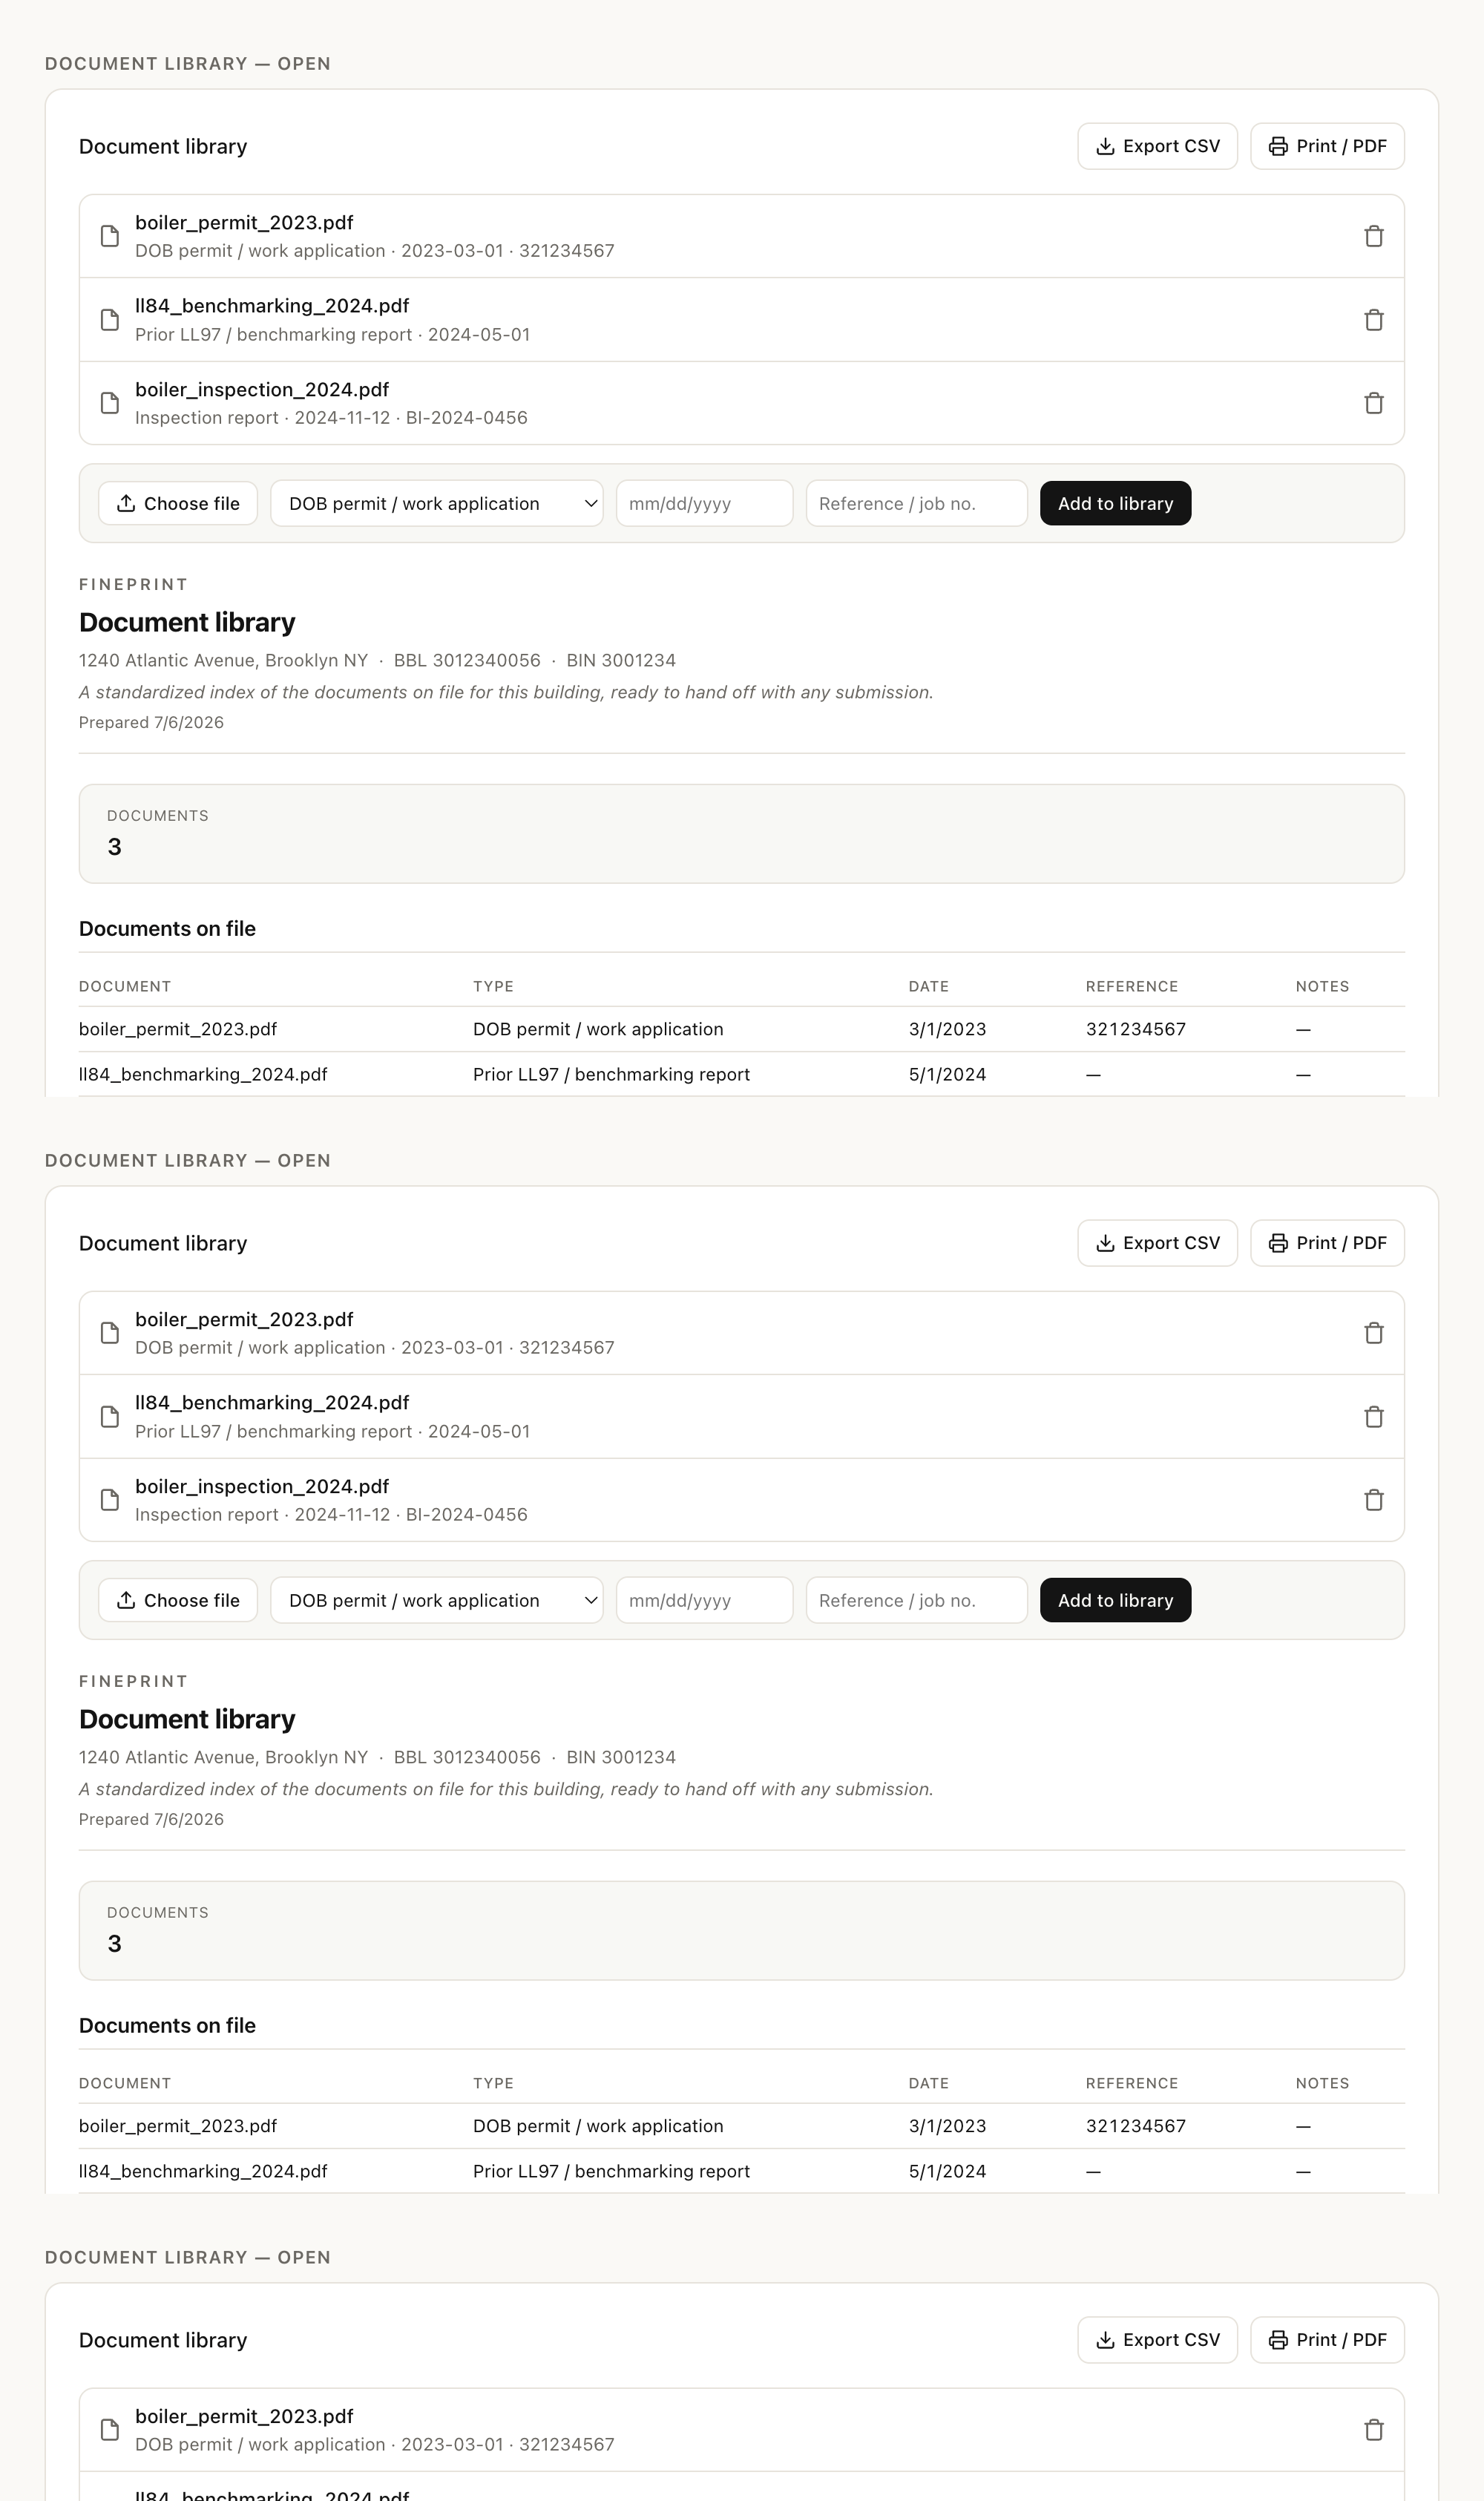
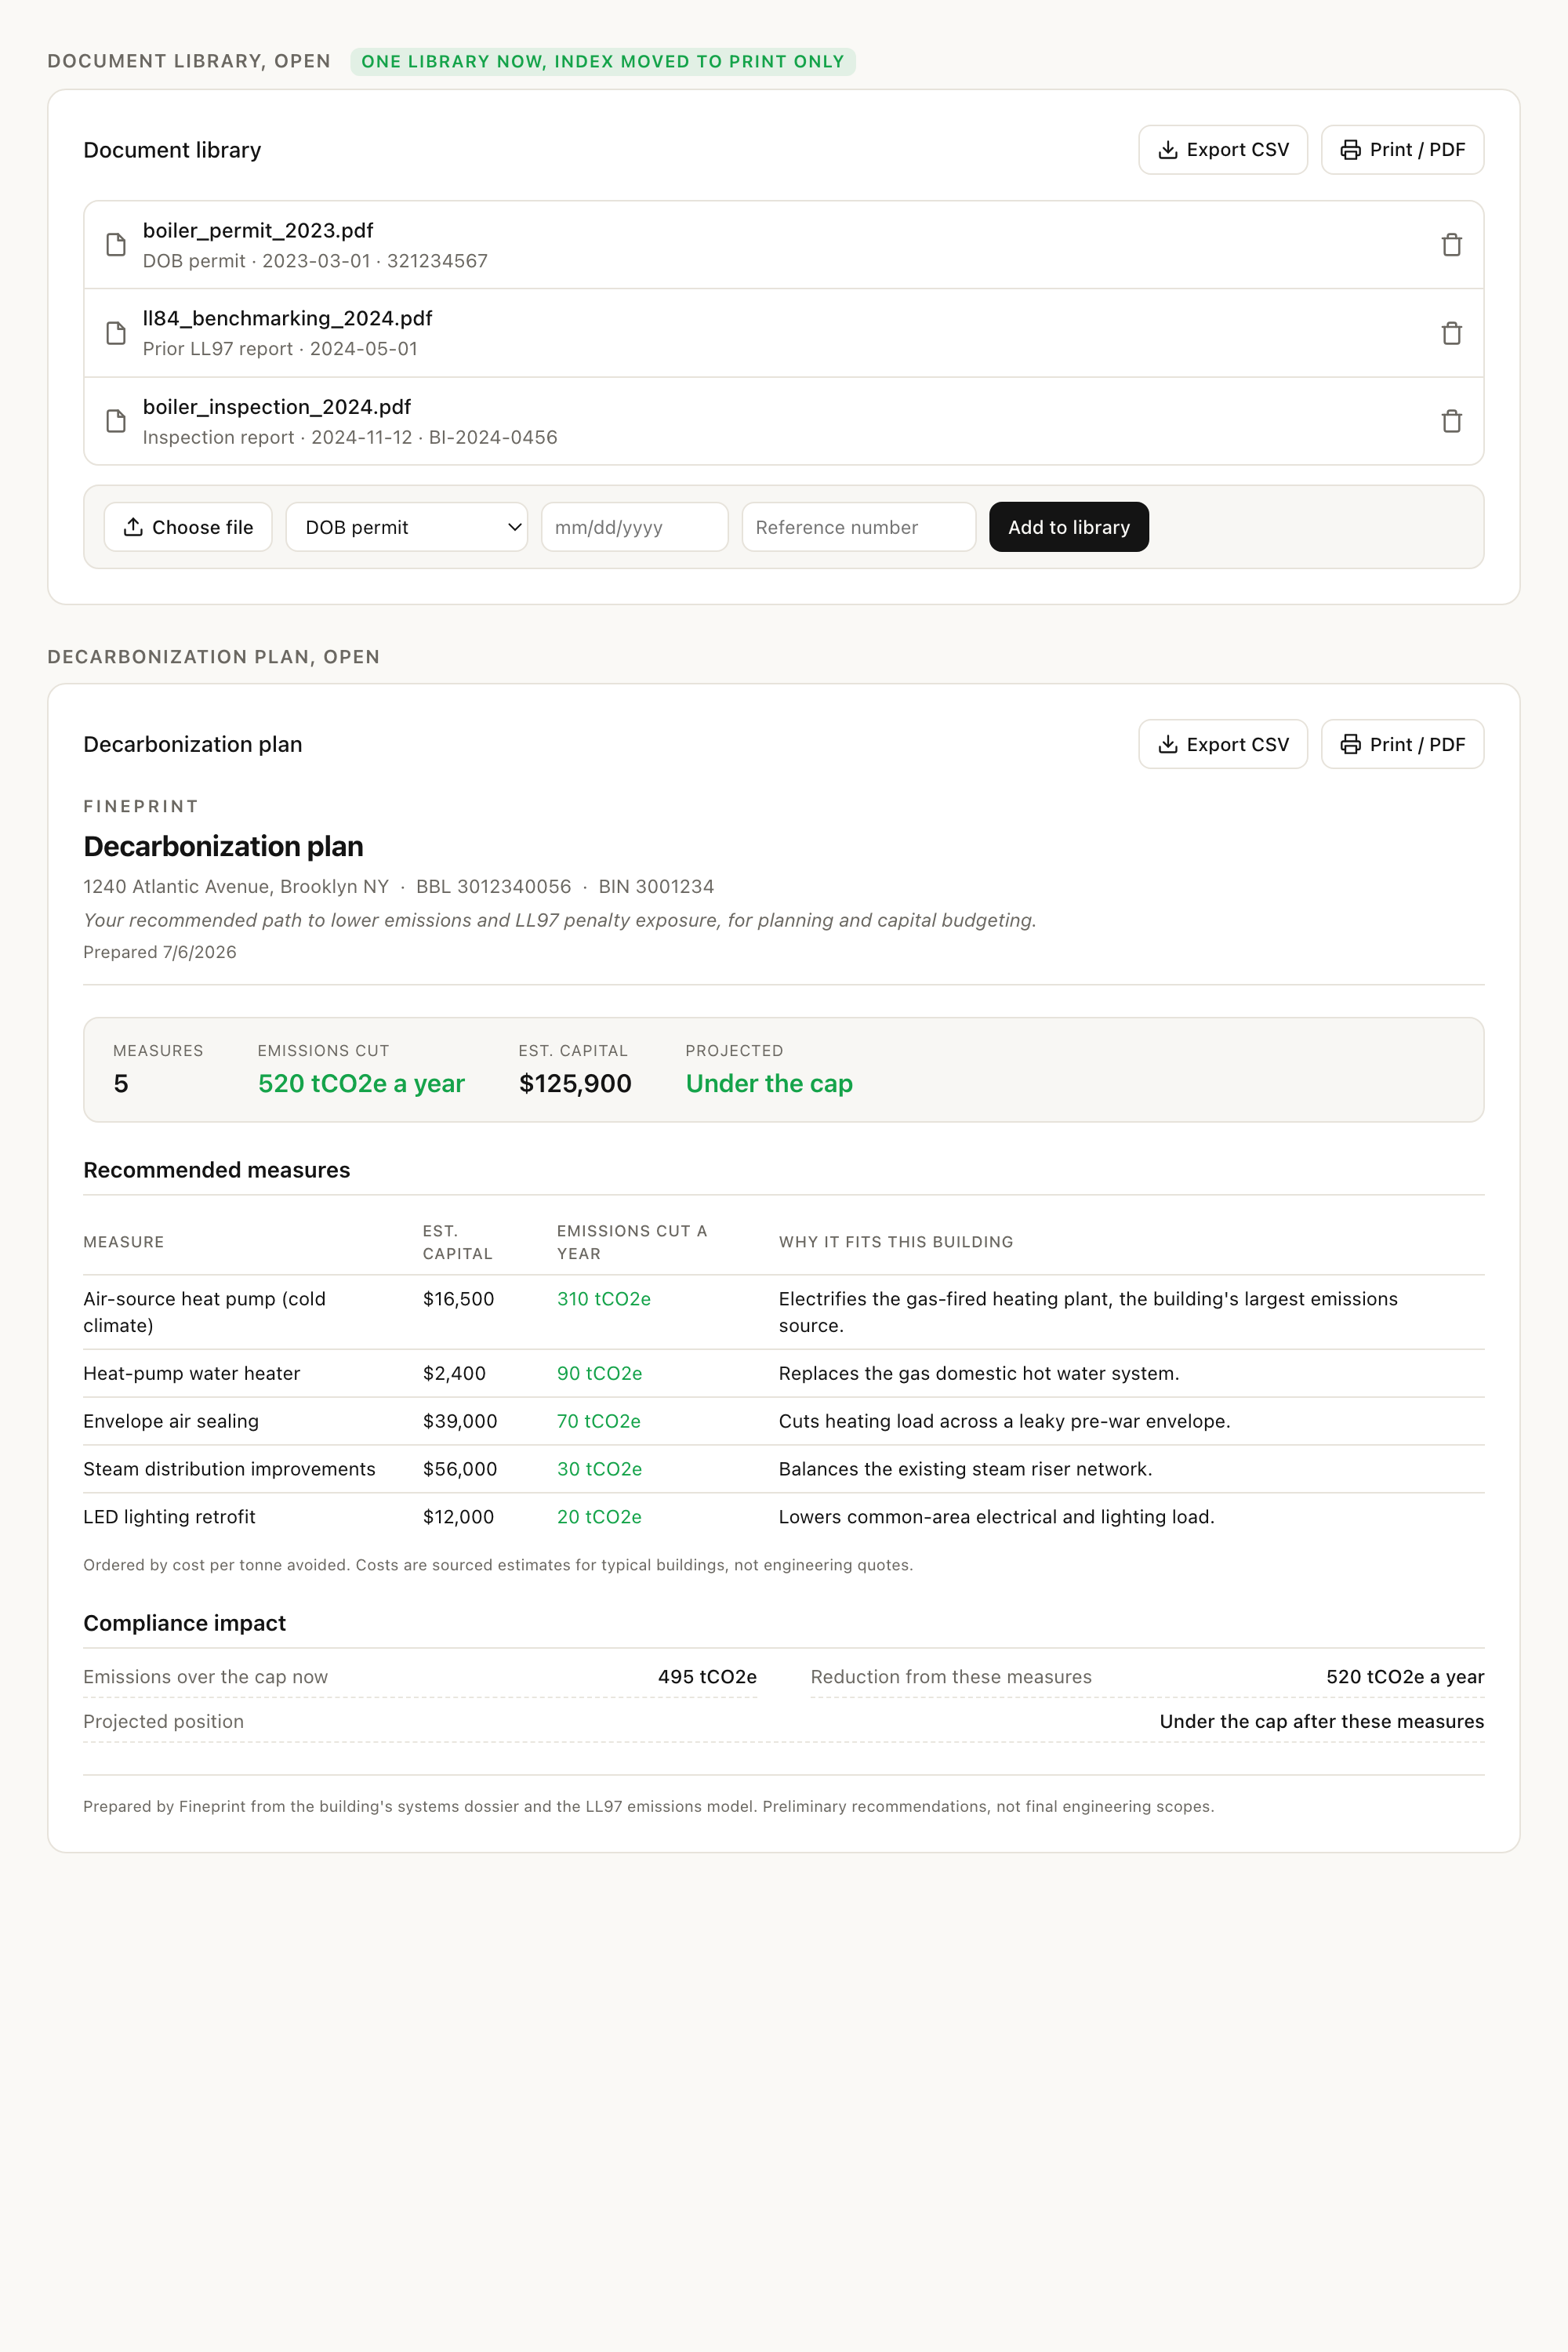
Add regenerated deliverable preview renders

diff --git a/preview/prepared-by-fineprint-2.html b/preview/prepared-by-fineprint-2.html
@@ -1,83 +1,58 @@
 <!doctype html>
-<html lang="en">
-<head>
-<meta charset="utf-8" />
-<meta name="viewport" content="width=device-width, initial-scale=1" />
-<title>Fineprint — document library & decarbonization plan</title>
+<html lang="en"><head><meta charset="utf-8" /><title>Fineprint fixed</title>
 <style>
-  :root{
-    --bg:#faf9f6; --card:#ffffff; --fg:#141414; --muted:#f2f0ea; --muted-fg:#6b6862;
-    --border:#e7e3db; --primary:#141414; --primary-fg:#faf9f6; --success:#15a34a;
-    --destructive:#e5342b; --amber:#d97706;
-  }
+  :root{--bg:#faf9f6;--card:#fff;--fg:#141414;--muted:#f2f0ea;--muted-fg:#6b6862;--border:#e7e3db;--primary:#141414;--primary-fg:#faf9f6;--success:#15a34a;--destructive:#e5342b}
   *{box-sizing:border-box;margin:0;padding:0}
-  body{background:var(--bg);color:var(--fg);
-    font-family:-apple-system,BlinkMacSystemFont,"Segoe UI",Inter,Roboto,Helvetica,Arial,sans-serif;
-    -webkit-font-smoothing:antialiased;line-height:1.45;padding:34px 30px 40px}
-  .wrap{max-width:940px;margin:0 auto;display:flex;flex-direction:column;gap:26px}
+  body{background:var(--bg);color:var(--fg);font-family:-apple-system,BlinkMacSystemFont,"Segoe UI",Inter,Roboto,Helvetica,Arial,sans-serif;-webkit-font-smoothing:antialiased;line-height:1.45;padding:30px}
+  .wrap{max-width:940px;margin:0 auto;display:flex;flex-direction:column;gap:24px}
   svg{display:block}
-  .label{font-size:12px;font-weight:600;color:var(--muted-fg);text-transform:uppercase;letter-spacing:.06em}
-
+  .label{font-size:12px;font-weight:600;color:var(--muted-fg);text-transform:uppercase;letter-spacing:.06em;margin-bottom:8px}
   .panel{border:1px solid var(--border);background:var(--card);border-radius:12px;padding:22px}
   .toolbar{display:flex;align-items:center;justify-content:space-between;gap:10px;margin-bottom:16px}
   .toolbar .t{font-size:14px;font-weight:500}
   .toolbar .acts{display:flex;gap:8px}
-  .btn{display:inline-flex;align-items:center;gap:5px;font-size:12px;font-weight:500;height:32px;
-    padding:0 11px;border-radius:8px;border:1px solid var(--border);background:var(--card);color:var(--fg);cursor:default}
+  .btn{display:inline-flex;align-items:center;gap:5px;font-size:12px;font-weight:500;height:32px;padding:0 11px;border-radius:8px;border:1px solid var(--border);background:var(--card);color:var(--fg)}
   .btn.primary{background:var(--primary);color:var(--primary-fg);border-color:var(--primary)}
   .btn svg{width:14px;height:14px}
-  .btn.sm{height:30px;font-size:12px}
-
-  /* document library interactive */
-  .lib{display:flex;flex-direction:column;gap:12px;margin-bottom:20px}
-  .doclist{border:1px solid var(--border);border-radius:10px;overflow:hidden}
+  .doclist{border:1px solid var(--border);border-radius:10px;overflow:hidden;margin-bottom:12px}
   .docrow{display:flex;align-items:center;justify-content:space-between;gap:12px;padding:9px 12px;border-bottom:1px solid var(--border)}
   .docrow:last-child{border-bottom:0}
-  .docrow .left{display:flex;align-items:center;gap:9px;min-width:0}
+  .docrow .left{display:flex;align-items:center;gap:9px}
   .docrow .name{font-size:13px;font-weight:500}
   .docrow .meta{font-size:12px;color:var(--muted-fg);margin-top:1px}
   .trash{color:var(--muted-fg)}
-  .uploadbar{display:flex;flex-wrap:wrap;align-items:center;gap:8px;border:1px solid var(--border);
-    background:rgba(242,240,234,.5);border-radius:10px;padding:10px 12px}
-  select,input.f{height:32px;border:1px solid var(--border);border-radius:8px;background:var(--card);
-    color:var(--fg);font-size:12px;padding:0 8px;font-family:inherit}
-
-  /* deliverable document (same as emissions view) */
-  .doc{display:flex;flex-direction:column;gap:20px;font-size:14px;color:var(--fg)}
+  .uploadbar{display:flex;flex-wrap:wrap;align-items:center;gap:8px;border:1px solid var(--border);background:rgba(242,240,234,.5);border-radius:10px;padding:10px 12px}
+  select,input.f{height:32px;border:1px solid var(--border);border-radius:8px;background:var(--card);color:var(--fg);font-size:12px;padding:0 8px;font-family:inherit}
+  .doc{display:flex;flex-direction:column;gap:20px;font-size:14px}
   .doc header{border-bottom:1px solid var(--border);padding-bottom:12px;display:flex;flex-direction:column;gap:4px}
   .brand{font-size:11px;font-weight:600;text-transform:uppercase;letter-spacing:.16em;color:var(--muted-fg)}
   .doc h3{font-size:18px;font-weight:700;letter-spacing:-.01em}
   .doc .ident{font-size:12px;color:var(--muted-fg)}
   .doc .purpose{font-size:12px;font-style:italic;color:var(--muted-fg)}
   .doc .prep{font-size:11px;color:var(--muted-fg)}
-  .statrow{display:flex;flex-wrap:wrap;gap:12px 34px;border:1px solid var(--border);
-    background:rgba(242,240,234,.5);border-radius:10px;padding:13px 18px}
+  .statrow{display:flex;flex-wrap:wrap;gap:12px 34px;border:1px solid var(--border);background:rgba(242,240,234,.5);border-radius:10px;padding:13px 18px}
   .stat .k{font-size:10px;text-transform:uppercase;letter-spacing:.04em;color:var(--muted-fg)}
-  .stat .v{font-size:16px;font-weight:600;font-variant-numeric:tabular-nums;margin-top:2px}
+  .stat .v{font-size:16px;font-weight:600;margin-top:2px}
+  .ok{color:var(--success)}
+  .doc h4{font-size:14px;font-weight:600;border-bottom:1px solid var(--border);padding-bottom:5px}
   .doc section{display:flex;flex-direction:column;gap:9px}
-  .doc h4{font-size:14px;font-weight:600;letter-spacing:-.01em;border-bottom:1px solid var(--border);padding-bottom:5px}
   dl.rows{display:grid;grid-template-columns:1fr 1fr;gap:6px 34px}
   dl.rows .r{display:flex;justify-content:space-between;gap:12px;border-bottom:1px dashed rgba(231,227,219,.9);padding-bottom:4px}
   dl.rows dt{font-size:12px;color:var(--muted-fg)}
   dl.rows dd{font-size:12px;font-weight:500;text-align:right}
   table{width:100%;border-collapse:collapse;font-size:12px}
-  thead th{text-align:left;font-size:10px;text-transform:uppercase;letter-spacing:.04em;color:var(--muted-fg);
-    font-weight:500;padding:6px 14px 6px 0;border-bottom:1px solid var(--border)}
+  thead th{text-align:left;font-size:10px;text-transform:uppercase;letter-spacing:.04em;color:var(--muted-fg);font-weight:500;padding:6px 14px 6px 0;border-bottom:1px solid var(--border)}
   tbody td{padding:6px 14px 6px 0;border-bottom:1px solid var(--border);vertical-align:top}
   tbody tr:last-child td{border-bottom:0}
-  td.num{font-variant-numeric:tabular-nums}
   .tnote{font-size:10px;color:var(--muted-fg)}
-  .notes{border-top:1px solid var(--border);padding-top:12px;display:flex;flex-direction:column;gap:3px}
+  .notes{border-top:1px solid var(--border);padding-top:12px}
   .notes p{font-size:10px;color:var(--muted-fg)}
-  .ok{color:var(--success)}
-</style>
-</head>
-<body>
-<div class="wrap">
+  .badge{display:inline-block;font-size:11px;color:var(--success);background:rgba(21,163,74,.1);border-radius:6px;padding:1px 7px;margin-left:8px}
+</style></head>
+<body><div class="wrap">
 
-  <!-- ===================== DOCUMENT LIBRARY (open) ===================== -->
   <div>
-    <div class="label" style="margin-bottom:8px">Document library — open</div>
+    <div class="label">Document library, open <span class="badge">one library now, index moved to print only</span></div>
     <div class="panel">
       <div class="toolbar">
         <div class="t">Document library</div>
@@ -86,125 +61,63 @@
           <span class="btn"><svg viewBox="0 0 24 24" fill="none" stroke="currentColor" stroke-width="2" stroke-linecap="round" stroke-linejoin="round"><path d="M6 9V2h12v7"/><path d="M6 18H4a2 2 0 0 1-2-2v-5a2 2 0 0 1 2-2h16a2 2 0 0 1 2 2v5a2 2 0 0 1-2 2h-2"/><rect x="6" y="14" width="12" height="8"/></svg>Print / PDF</span>
         </div>
       </div>
-
-      <!-- interactive library (upload + list) -->
-      <div class="lib">
-        <div class="doclist">
-          <div class="docrow">
-            <div class="left">
-              <svg width="16" height="16" viewBox="0 0 24 24" fill="none" stroke="#6b6862" stroke-width="2" stroke-linecap="round" stroke-linejoin="round"><path d="M14 2H6a2 2 0 0 0-2 2v16a2 2 0 0 0 2 2h12a2 2 0 0 0 2-2V8z"/><path d="M14 2v6h6"/></svg>
-              <div><div class="name">boiler_permit_2023.pdf</div><div class="meta">DOB permit / work application · 2023-03-01 · 321234567</div></div>
-            </div>
-            <svg class="trash" width="16" height="16" viewBox="0 0 24 24" fill="none" stroke="currentColor" stroke-width="2" stroke-linecap="round" stroke-linejoin="round"><path d="M3 6h18"/><path d="M19 6v14a2 2 0 0 1-2 2H7a2 2 0 0 1-2-2V6"/><path d="M8 6V4a2 2 0 0 1 2-2h4a2 2 0 0 1 2 2v2"/></svg>
-          </div>
-          <div class="docrow">
-            <div class="left">
-              <svg width="16" height="16" viewBox="0 0 24 24" fill="none" stroke="#6b6862" stroke-width="2" stroke-linecap="round" stroke-linejoin="round"><path d="M14 2H6a2 2 0 0 0-2 2v16a2 2 0 0 0 2 2h12a2 2 0 0 0 2-2V8z"/><path d="M14 2v6h6"/></svg>
-              <div><div class="name">ll84_benchmarking_2024.pdf</div><div class="meta">Prior LL97 / benchmarking report · 2024-05-01</div></div>
-            </div>
-            <svg class="trash" width="16" height="16" viewBox="0 0 24 24" fill="none" stroke="currentColor" stroke-width="2" stroke-linecap="round" stroke-linejoin="round"><path d="M3 6h18"/><path d="M19 6v14a2 2 0 0 1-2 2H7a2 2 0 0 1-2-2V6"/><path d="M8 6V4a2 2 0 0 1 2-2h4a2 2 0 0 1 2 2v2"/></svg>
-          </div>
-          <div class="docrow">
-            <div class="left">
-              <svg width="16" height="16" viewBox="0 0 24 24" fill="none" stroke="#6b6862" stroke-width="2" stroke-linecap="round" stroke-linejoin="round"><path d="M14 2H6a2 2 0 0 0-2 2v16a2 2 0 0 0 2 2h12a2 2 0 0 0 2-2V8z"/><path d="M14 2v6h6"/></svg>
-              <div><div class="name">boiler_inspection_2024.pdf</div><div class="meta">Inspection report · 2024-11-12 · BI-2024-0456</div></div>
-            </div>
-            <svg class="trash" width="16" height="16" viewBox="0 0 24 24" fill="none" stroke="currentColor" stroke-width="2" stroke-linecap="round" stroke-linejoin="round"><path d="M3 6h18"/><path d="M19 6v14a2 2 0 0 1-2 2H7a2 2 0 0 1-2-2V6"/><path d="M8 6V4a2 2 0 0 1 2-2h4a2 2 0 0 1 2 2v2"/></svg>
-          </div>
-        </div>
-
-        <div class="uploadbar">
-          <span class="btn sm"><svg viewBox="0 0 24 24" fill="none" stroke="currentColor" stroke-width="2" stroke-linecap="round" stroke-linejoin="round"><path d="M21 15v4a2 2 0 0 1-2 2H5a2 2 0 0 1-2-2v-4"/><path d="M17 8l-5-5-5 5"/><path d="M12 3v12"/></svg>Choose file</span>
-          <select><option>DOB permit / work application</option><option>Prior LL97 / benchmarking report</option><option>Inspection report</option><option>Equipment cut sheet / invoice</option><option>Other</option></select>
-          <input class="f" type="text" placeholder="mm/dd/yyyy" style="width:120px" />
-          <input class="f" type="text" placeholder="Reference / job no." style="width:150px" />
-          <span class="btn sm primary">Add to library</span>
-        </div>
+      <div class="doclist">
+        <div class="docrow"><div class="left"><svg width="16" height="16" viewBox="0 0 24 24" fill="none" stroke="#6b6862" stroke-width="2" stroke-linecap="round" stroke-linejoin="round"><path d="M14 2H6a2 2 0 0 0-2 2v16a2 2 0 0 0 2 2h12a2 2 0 0 0 2-2V8z"/><path d="M14 2v6h6"/></svg><div><div class="name">boiler_permit_2023.pdf</div><div class="meta">DOB permit · 2023-03-01 · 321234567</div></div></div><svg class="trash" width="16" height="16" viewBox="0 0 24 24" fill="none" stroke="currentColor" stroke-width="2" stroke-linecap="round" stroke-linejoin="round"><path d="M3 6h18"/><path d="M19 6v14a2 2 0 0 1-2 2H7a2 2 0 0 1-2-2V6"/><path d="M8 6V4a2 2 0 0 1 2-2h4a2 2 0 0 1 2 2v2"/></svg></div>
+        <div class="docrow"><div class="left"><svg width="16" height="16" viewBox="0 0 24 24" fill="none" stroke="#6b6862" stroke-width="2" stroke-linecap="round" stroke-linejoin="round"><path d="M14 2H6a2 2 0 0 0-2 2v16a2 2 0 0 0 2 2h12a2 2 0 0 0 2-2V8z"/><path d="M14 2v6h6"/></svg><div><div class="name">ll84_benchmarking_2024.pdf</div><div class="meta">Prior LL97 report · 2024-05-01</div></div></div><svg class="trash" width="16" height="16" viewBox="0 0 24 24" fill="none" stroke="currentColor" stroke-width="2" stroke-linecap="round" stroke-linejoin="round"><path d="M3 6h18"/><path d="M19 6v14a2 2 0 0 1-2 2H7a2 2 0 0 1-2-2V6"/><path d="M8 6V4a2 2 0 0 1 2-2h4a2 2 0 0 1 2 2v2"/></svg></div>
+        <div class="docrow"><div class="left"><svg width="16" height="16" viewBox="0 0 24 24" fill="none" stroke="#6b6862" stroke-width="2" stroke-linecap="round" stroke-linejoin="round"><path d="M14 2H6a2 2 0 0 0-2 2v16a2 2 0 0 0 2 2h12a2 2 0 0 0 2-2V8z"/><path d="M14 2v6h6"/></svg><div><div class="name">boiler_inspection_2024.pdf</div><div class="meta">Inspection report · 2024-11-12 · BI-2024-0456</div></div></div><svg class="trash" width="16" height="16" viewBox="0 0 24 24" fill="none" stroke="currentColor" stroke-width="2" stroke-linecap="round" stroke-linejoin="round"><path d="M3 6h18"/><path d="M19 6v14a2 2 0 0 1-2 2H7a2 2 0 0 1-2-2V6"/><path d="M8 6V4a2 2 0 0 1 2-2h4a2 2 0 0 1 2 2v2"/></svg></div>
       </div>
-
-      <!-- the standardized index document -->
-      <div class="doc">
-        <header>
-          <div class="brand">Fineprint</div>
-          <h3>Document library</h3>
-          <div class="ident">1240 Atlantic Avenue, Brooklyn NY &nbsp;·&nbsp; BBL 3012340056 &nbsp;·&nbsp; BIN 3001234</div>
-          <div class="purpose">A standardized index of the documents on file for this building, ready to hand off with any submission.</div>
-          <div class="prep">Prepared 7/6/2026</div>
-        </header>
-        <div class="statrow"><div class="stat"><div class="k">Documents</div><div class="v">3</div></div></div>
-        <section>
-          <h4>Documents on file</h4>
-          <table>
-            <thead><tr><th>Document</th><th>Type</th><th>Date</th><th>Reference</th><th>Notes</th></tr></thead>
-            <tbody>
-              <tr><td>boiler_permit_2023.pdf</td><td>DOB permit / work application</td><td class="num">3/1/2023</td><td class="num">321234567</td><td>—</td></tr>
-              <tr><td>ll84_benchmarking_2024.pdf</td><td>Prior LL97 / benchmarking report</td><td class="num">5/1/2024</td><td>—</td><td>—</td></tr>
-              <tr><td>boiler_inspection_2024.pdf</td><td>Inspection report</td><td class="num">11/12/2024</td><td class="num">BI-2024-0456</td><td>—</td></tr>
-            </tbody>
-          </table>
-        </section>
-        <div class="notes"><p>Prepared by Fineprint. Files are stored privately in your account; only you can access them.</p></div>
+      <div class="uploadbar">
+        <span class="btn"><svg viewBox="0 0 24 24" fill="none" stroke="currentColor" stroke-width="2" stroke-linecap="round" stroke-linejoin="round"><path d="M21 15v4a2 2 0 0 1-2 2H5a2 2 0 0 1-2-2v-4"/><path d="M17 8l-5-5-5 5"/><path d="M12 3v12"/></svg>Choose file</span>
+        <select><option>DOB permit</option><option>Prior LL97 report</option><option>Inspection report</option><option>Equipment cut sheet</option><option>Other</option></select>
+        <input class="f" type="text" placeholder="mm/dd/yyyy" style="width:120px" />
+        <input class="f" type="text" placeholder="Reference number" style="width:150px" />
+        <span class="btn primary">Add to library</span>
       </div>
     </div>
   </div>
 
-  <!-- ===================== DECARBONIZATION PLAN (open) ===================== -->
   <div>
-    <div class="label" style="margin-bottom:8px">Decarbonization plan — open</div>
+    <div class="label">Decarbonization plan, open</div>
     <div class="panel">
-      <div class="toolbar">
-        <div class="t">Decarbonization plan</div>
-        <div class="acts">
-          <span class="btn"><svg viewBox="0 0 24 24" fill="none" stroke="currentColor" stroke-width="2" stroke-linecap="round" stroke-linejoin="round"><path d="M21 15v4a2 2 0 0 1-2 2H5a2 2 0 0 1-2-2v-4"/><path d="M7 10l5 5 5-5"/><path d="M12 15V3"/></svg>Export CSV</span>
-          <span class="btn"><svg viewBox="0 0 24 24" fill="none" stroke="currentColor" stroke-width="2" stroke-linecap="round" stroke-linejoin="round"><path d="M6 9V2h12v7"/><path d="M6 18H4a2 2 0 0 1-2-2v-5a2 2 0 0 1 2-2h16a2 2 0 0 1 2 2v5a2 2 0 0 1-2 2h-2"/><rect x="6" y="14" width="12" height="8"/></svg>Print / PDF</span>
-        </div>
-      </div>
-
+      <div class="toolbar"><div class="t">Decarbonization plan</div><div class="acts"><span class="btn"><svg viewBox="0 0 24 24" fill="none" stroke="currentColor" stroke-width="2" stroke-linecap="round" stroke-linejoin="round"><path d="M21 15v4a2 2 0 0 1-2 2H5a2 2 0 0 1-2-2v-4"/><path d="M7 10l5 5 5-5"/><path d="M12 15V3"/></svg>Export CSV</span><span class="btn"><svg viewBox="0 0 24 24" fill="none" stroke="currentColor" stroke-width="2" stroke-linecap="round" stroke-linejoin="round"><path d="M6 9V2h12v7"/><path d="M6 18H4a2 2 0 0 1-2-2v-5a2 2 0 0 1 2-2h16a2 2 0 0 1 2 2v5a2 2 0 0 1-2 2h-2"/><rect x="6" y="14" width="12" height="8"/></svg>Print / PDF</span></div></div>
       <div class="doc">
         <header>
-          <div class="brand">Fineprint</div>
-          <h3>Decarbonization plan</h3>
+          <div class="brand">Fineprint</div><h3>Decarbonization plan</h3>
           <div class="ident">1240 Atlantic Avenue, Brooklyn NY &nbsp;·&nbsp; BBL 3012340056 &nbsp;·&nbsp; BIN 3001234</div>
-          <div class="purpose">Your recommended path to reduce emissions and LL97 penalty exposure - for planning, capital budgeting, and your consultants.</div>
+          <div class="purpose">Your recommended path to lower emissions and LL97 penalty exposure, for planning and capital budgeting.</div>
           <div class="prep">Prepared 7/6/2026</div>
         </header>
-
         <div class="statrow">
           <div class="stat"><div class="k">Measures</div><div class="v">5</div></div>
-          <div class="stat"><div class="k">Emissions cut</div><div class="v ok">-520 tCO2e/yr</div></div>
+          <div class="stat"><div class="k">Emissions cut</div><div class="v ok">520 tCO2e a year</div></div>
           <div class="stat"><div class="k">Est. capital</div><div class="v">$125,900</div></div>
           <div class="stat"><div class="k">Projected</div><div class="v ok">Under the cap</div></div>
         </div>
-
         <section>
           <h4>Recommended measures</h4>
           <table>
-            <thead><tr><th>Measure</th><th>Est. capital</th><th>Emissions cut / yr</th><th>Why it fits this building</th></tr></thead>
+            <thead><tr><th>Measure</th><th>Est. capital</th><th>Emissions cut a year</th><th>Why it fits this building</th></tr></thead>
             <tbody>
-              <tr><td>Air-source heat pump (cold climate)</td><td class="num">$16,500</td><td class="num ok">-310 tCO2e</td><td>Electrifies the gas-fired heating plant - the building's largest emissions source.</td></tr>
-              <tr><td>Heat-pump water heater</td><td class="num">$2,400</td><td class="num ok">-90 tCO2e</td><td>Replaces the gas domestic hot water system.</td></tr>
-              <tr><td>Envelope air sealing</td><td class="num">$39,000</td><td class="num ok">-70 tCO2e</td><td>Cuts heating load across a leaky pre-war envelope.</td></tr>
-              <tr><td>Steam distribution improvements</td><td class="num">$56,000</td><td class="num ok">-30 tCO2e</td><td>Balances the existing steam riser network.</td></tr>
-              <tr><td>LED lighting retrofit</td><td class="num">$12,000</td><td class="num ok">-20 tCO2e</td><td>Lowers common-area electrical and lighting load.</td></tr>
+              <tr><td>Air-source heat pump (cold climate)</td><td>$16,500</td><td class="ok">310 tCO2e</td><td>Electrifies the gas-fired heating plant, the building's largest emissions source.</td></tr>
+              <tr><td>Heat-pump water heater</td><td>$2,400</td><td class="ok">90 tCO2e</td><td>Replaces the gas domestic hot water system.</td></tr>
+              <tr><td>Envelope air sealing</td><td>$39,000</td><td class="ok">70 tCO2e</td><td>Cuts heating load across a leaky pre-war envelope.</td></tr>
+              <tr><td>Steam distribution improvements</td><td>$56,000</td><td class="ok">30 tCO2e</td><td>Balances the existing steam riser network.</td></tr>
+              <tr><td>LED lighting retrofit</td><td>$12,000</td><td class="ok">20 tCO2e</td><td>Lowers common-area electrical and lighting load.</td></tr>
             </tbody>
           </table>
           <div class="tnote">Ordered by cost per tonne avoided. Costs are sourced estimates for typical buildings, not engineering quotes.</div>
         </section>
-
         <section>
           <h4>Compliance impact</h4>
           <dl class="rows">
             <div class="r"><dt>Emissions over the cap now</dt><dd>495 tCO2e</dd></div>
-            <div class="r"><dt>Reduction from these measures</dt><dd>-520 tCO2e/yr</dd></div>
+            <div class="r"><dt>Reduction from these measures</dt><dd>520 tCO2e a year</dd></div>
             <div class="r" style="grid-column:1 / -1"><dt>Projected position</dt><dd>Under the cap after these measures</dd></div>
           </dl>
         </section>
-
         <div class="notes"><p>Prepared by Fineprint from the building's systems dossier and the LL97 emissions model. Preliminary recommendations, not final engineering scopes.</p></div>
       </div>
     </div>
   </div>
 
-</div>
-</body>
-</html>
+</div></body></html>

diff --git a/preview/prepared-by-fineprint.html b/preview/prepared-by-fineprint.html
@@ -3,7 +3,7 @@
 <head>
 <meta charset="utf-8" />
 <meta name="viewport" content="width=device-width, initial-scale=1" />
-<title>Prepared by Fineprint — preview</title>
+<title>Prepared by Fineprint preview</title>
 <style>
   :root{
     --bg:#faf9f6; --card:#ffffff; --fg:#141414; --muted:#f2f0ea; --muted-fg:#6b6862;
@@ -84,18 +84,18 @@
 
   <div>
     <div class="sec-h">Prepared by Fineprint</div>
-    <div class="sec-sub">Everything we've put together for this building - open it, then export wherever you submit for LL97 compliance.</div>
+    <div class="sec-sub">Everything we've put together for this building. Open it, then export wherever you submit for LL97 compliance.</div>
   </div>
 
   <div class="cards">
     <!-- Emissions -->
     <div class="card">
       <div class="card-title"><span class="ic"><svg width="16" height="16" viewBox="0 0 24 24" fill="none" stroke="currentColor" stroke-width="2" stroke-linecap="round" stroke-linejoin="round"><path d="M11 20A7 7 0 0 1 9.8 6.1C15.5 5 17 4.48 19 2c1 2 2 4.18 2 8 0 5.5-4.78 10-10 10Z"/><path d="M2 21c0-3 1.85-5.36 5.08-6"/></svg></span>LL97 emissions position</div>
-      <div class="card-purpose">For your annual Article 320 emissions report in DOB NOW: BEAM, and for your Registered Design Professional.</div>
+      <div class="card-purpose">For your annual Article 320 emissions report in the BEAM portal and for your Registered Design Professional.</div>
       <div class="chips">
         <div class="chip"><span class="k">Status</span> <span class="v bad">Over the cap</span></div>
         <div class="chip"><span class="k">Over cap</span> <span class="v bad">495 tCO2e</span></div>
-        <div class="chip"><span class="k">Penalty</span> <span class="v bad">$132,660/yr</span></div>
+        <div class="chip"><span class="k">Penalty</span> <span class="v bad">$132,660 a year</span></div>
       </div>
       <div class="card-actions">
         <span class="btn primary">Close</span>
@@ -105,10 +105,10 @@
     <!-- Decarbonization -->
     <div class="card">
       <div class="card-title"><span class="ic"><svg width="16" height="16" viewBox="0 0 24 24" fill="none" stroke="currentColor" stroke-width="2" stroke-linecap="round" stroke-linejoin="round"><circle cx="6" cy="19" r="3"/><path d="M9 19h8.5a3.5 3.5 0 0 0 0-7h-11a3.5 3.5 0 0 1 0-7H15"/><circle cx="18" cy="5" r="3"/></svg></span>Decarbonization plan</div>
-      <div class="card-purpose">Your recommended path to reduce emissions and LL97 penalty exposure - for planning, capital budgeting, and your consultants.</div>
+      <div class="card-purpose">Your recommended path to lower emissions and LL97 penalty exposure, for planning and capital budgeting.</div>
       <div class="chips">
         <div class="chip"><span class="k">Measures</span> <span class="v">5</span></div>
-        <div class="chip"><span class="k">Emissions cut</span> <span class="v ok">-520 tCO2e/yr</span></div>
+        <div class="chip"><span class="k">Emissions cut</span> <span class="v ok">520 tCO2e a year</span></div>
         <div class="chip"><span class="k">Projected</span> <span class="v ok">Under the cap</span></div>
       </div>
       <div class="card-actions">
@@ -145,14 +145,14 @@
         <div class="brand">Fineprint</div>
         <h3>LL97 emissions position</h3>
         <div class="ident">1240 Atlantic Avenue, Brooklyn NY &nbsp;·&nbsp; BBL 3012340056 &nbsp;·&nbsp; BIN 3001234</div>
-        <div class="purpose">For your annual Article 320 emissions report in DOB NOW: BEAM, and for your Registered Design Professional.</div>
+        <div class="purpose">For your annual Article 320 emissions report in the BEAM portal and for your Registered Design Professional.</div>
         <div class="prep">Prepared 7/6/2026</div>
       </header>
 
       <div class="statrow">
         <div class="stat"><div class="k">Status</div><div class="v" style="color:var(--destructive)">Over the cap</div></div>
         <div class="stat"><div class="k">Over cap</div><div class="v" style="color:var(--destructive)">495 tCO2e</div></div>
-        <div class="stat"><div class="k">Penalty</div><div class="v" style="color:var(--destructive)">$132,660/yr</div></div>
+        <div class="stat"><div class="k">Penalty</div><div class="v" style="color:var(--destructive)">$132,660 a year</div></div>
         <div class="stat"><div class="k">Pathway</div><div class="v">Article 320</div></div>
       </div>
 
@@ -160,8 +160,8 @@
         <h4>Building</h4>
         <dl class="rows">
           <div class="r"><dt>Address</dt><dd>1240 Atlantic Avenue, Brooklyn NY</dd></div>
-          <div class="r"><dt>Borough-Block-Lot (BBL)</dt><dd>3012340056</dd></div>
-          <div class="r"><dt>Building Identification Number (BIN)</dt><dd>3001234</dd></div>
+          <div class="r"><dt>BBL</dt><dd>3012340056</dd></div>
+          <div class="r"><dt>BIN</dt><dd>3001234</dd></div>
           <div class="r"><dt>Gross floor area</dt><dd>60,000 ft²</dd></div>
           <div class="r" style="grid-column:1 / -1"><dt>Occupancy</dt><dd>Multifamily Housing (60,000 ft²)</dd></div>
         </dl>
@@ -171,20 +171,20 @@
         <h4>Emissions against the limit</h4>
         <table>
           <thead><tr>
-            <th>Compliance period</th><th>Limit</th><th>Emissions</th><th>Over cap</th><th>Penalty / yr</th><th>Status</th>
+            <th>Compliance period</th><th>Limit</th><th>Emissions</th><th>Over cap</th><th>Penalty a year</th><th>Status</th>
           </tr></thead>
           <tbody>
-            <tr><td>2024-2029</td><td>405 tCO2e</td><td>900 tCO2e</td><td class="over">495 tCO2e</td><td>$132,660</td><td>Over</td></tr>
-            <tr><td>2030-2034</td><td>228 tCO2e</td><td>900 tCO2e</td><td class="over">672 tCO2e</td><td>$180,096</td><td>Over</td></tr>
-            <tr><td>2035-2039</td><td>90 tCO2e</td><td>900 tCO2e</td><td class="over">810 tCO2e</td><td>$217,080</td><td>Over</td></tr>
+            <tr><td>2024 to 2029</td><td>405 tCO2e</td><td>900 tCO2e</td><td class="over">495 tCO2e</td><td>$132,660</td><td>Over</td></tr>
+            <tr><td>2030 to 2034</td><td>228 tCO2e</td><td>900 tCO2e</td><td class="over">672 tCO2e</td><td>$180,096</td><td>Over</td></tr>
+            <tr><td>2035 to 2039</td><td>90 tCO2e</td><td>900 tCO2e</td><td class="over">810 tCO2e</td><td>$217,080</td><td>Over</td></tr>
           </tbody>
         </table>
-        <div class="tnote">Limit = each occupancy area × its emissions coefficient (Admin Code 28-320.3). Penalty = $268 per tCO2e over the limit (1 RCNY 103-14(h)).</div>
+        <div class="tnote">The limit is each occupancy area times its emissions coefficient (Admin Code 28-320.3). The penalty is $268 per tCO2e over the limit (1 RCNY 103-14(h)).</div>
       </section>
 
       <div class="notes">
-        <p>Prepared by Fineprint from NYC public records and the LL97 emissions model. Figures are estimates for planning; your RDP verifies and attests the filed report.</p>
-        <p>Gross floor area for LL97 differs from the Dept. of Finance gross square footage - confirm the GFA your RDP will file.</p>
+        <p>Prepared by Fineprint from NYC public records and the LL97 emissions model. Figures are estimates for planning. Your RDP verifies and attests the filed report.</p>
+        <p>Gross floor area for LL97 differs from the Dept. of Finance gross square footage. Confirm the GFA your RDP will file.</p>
       </div>
     </div>
   </div>